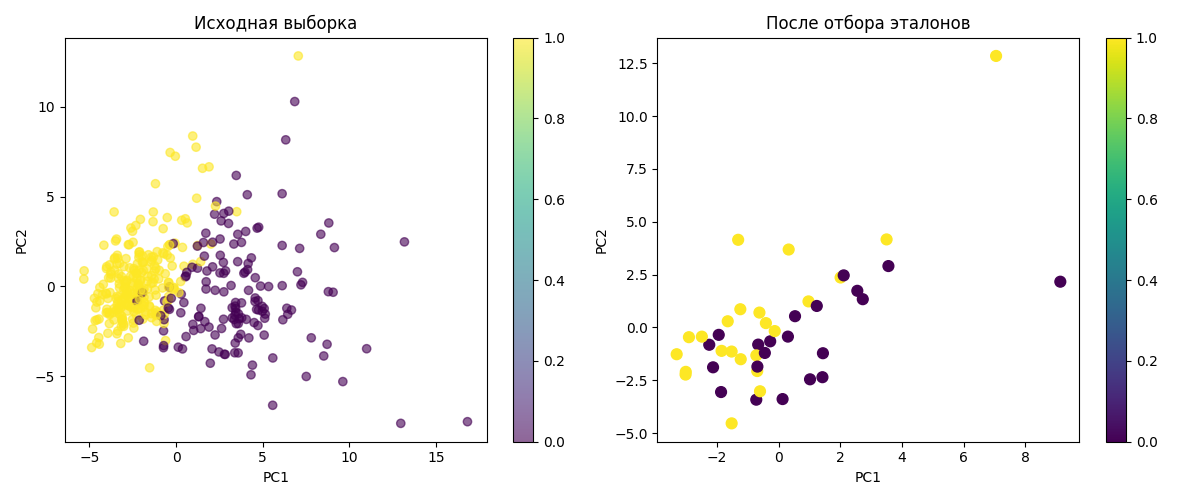
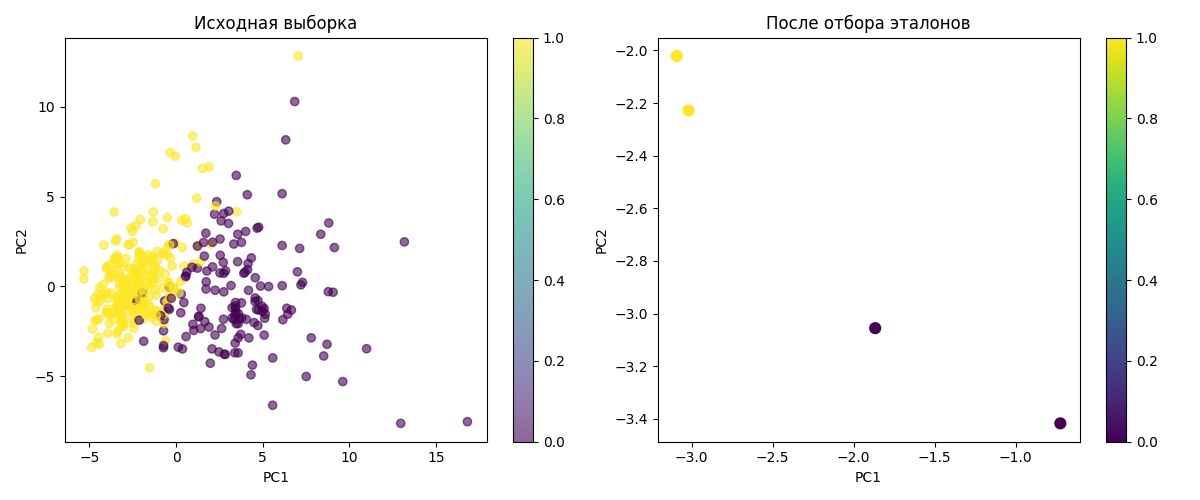
some fixes

diff --git a/students/maltseva-yi/lab2/source/metric_classifier.py b/students/maltseva-yi/lab2/source/metric_classifier.py
@@ -70,31 +70,54 @@ def loo_validation(X, y, k_values):
 def condensed_nn(X, y):
     if len(X) == 0:
         return X, y
-   
-    # Начинаем с одного объекта каждого класса
+
+    # 1. Начинаем с одного объекта каждого класса
     classes = np.unique(y)
     S = []
-   
+
     for cls in classes:
-        cls_indices = np.where(y == cls)[0]
-        if len(cls_indices) > 0:
-            S.append(cls_indices[0])
-   
-    changed = True
-    while changed:
-        changed = False
-        model = ParzenKNN(k=1)
-        model.fit(X[S], y[S])
-       
+        idx = np.where(y == cls)[0][0]
+        S.append(idx)
+
+    S = list(S)
+
+    def loo_error(indices):
+        """LOO-оценка (CCV при k=1) на подмножестве эталонов"""
+        err = 0
+        for i in range(len(X)):
+            # ближайший сосед среди эталонов
+            distances = np.linalg.norm(X[indices] - X[i], axis=1)
+            nearest = indices[np.argmin(distances)]
+            if y[nearest] != y[i]:
+                err += 1
+        return err / len(X)
+
+    # 2. Текущий CCV
+    current_ccv = loo_error(S)
+
+    # 3. Жадное добавление эталонов по CCV
+    improved = True
+    while improved:
+        improved = False
+        best_candidate = None
+        best_ccv = current_ccv
+
         for i in range(len(X)):
             if i in S:
                 continue
-           
-            if model.predict([X[i]])[0] != y[i]:
-                S.append(i)
-                changed = True
-                break  # Перестраиваем модель
-   
+
+            candidate_S = S + [i]
+            ccv = loo_error(candidate_S)
+
+            if ccv < best_ccv:
+                best_ccv = ccv
+                best_candidate = i
+
+        if best_candidate is not None:
+            S.append(best_candidate)
+            current_ccv = best_ccv
+            improved = True
+
     return X[S], y[S]
 
 def calculate_metrics(y_true, y_pred):

diff --git a/students/maltseva-yi/lab2/README.md b/students/maltseva-yi/lab2/README.md
@@ -58,12 +58,12 @@
 |------------------------|----------|-----------|--------|----------|-----------|
 | Наш KNN (k=1)          | 0.9591   | 0.9593    | 0.9591 | 0.9588   | 0.0187    |
 | Sklearn KNN (k=1)      | 0.9532   | 0.9532    | 0.9532 | 0.9531   | 1.2740    |
-| После отбора эталонов  | 0.9591   | 0.9593    | 0.9591 | 0.9591   | **0.0032** |
+| После отбора эталонов  | 0.9591   | 0.9614    | 0.9591 | 0.9594   | **0.0014** |
 
 **Выводы**:
 1. Наша реализация превосходит sklearn по точности (0.9591 vs 0.9532). Это объясняется использованием ядерного сглаживания и адаптивной ширины окна.
 2. Скорость работы нашей реализации значительно выше (0.0187с vs 1.2740с)
-3. Отбор эталонов сохраняет точность при 6-кратном ускорении (0.0032с)
+3. Отбор эталонов сохраняет точность при 6-кратном ускорении (0.0014с)
 
 ### 4. Анализ влияния метрики и ядра
 
